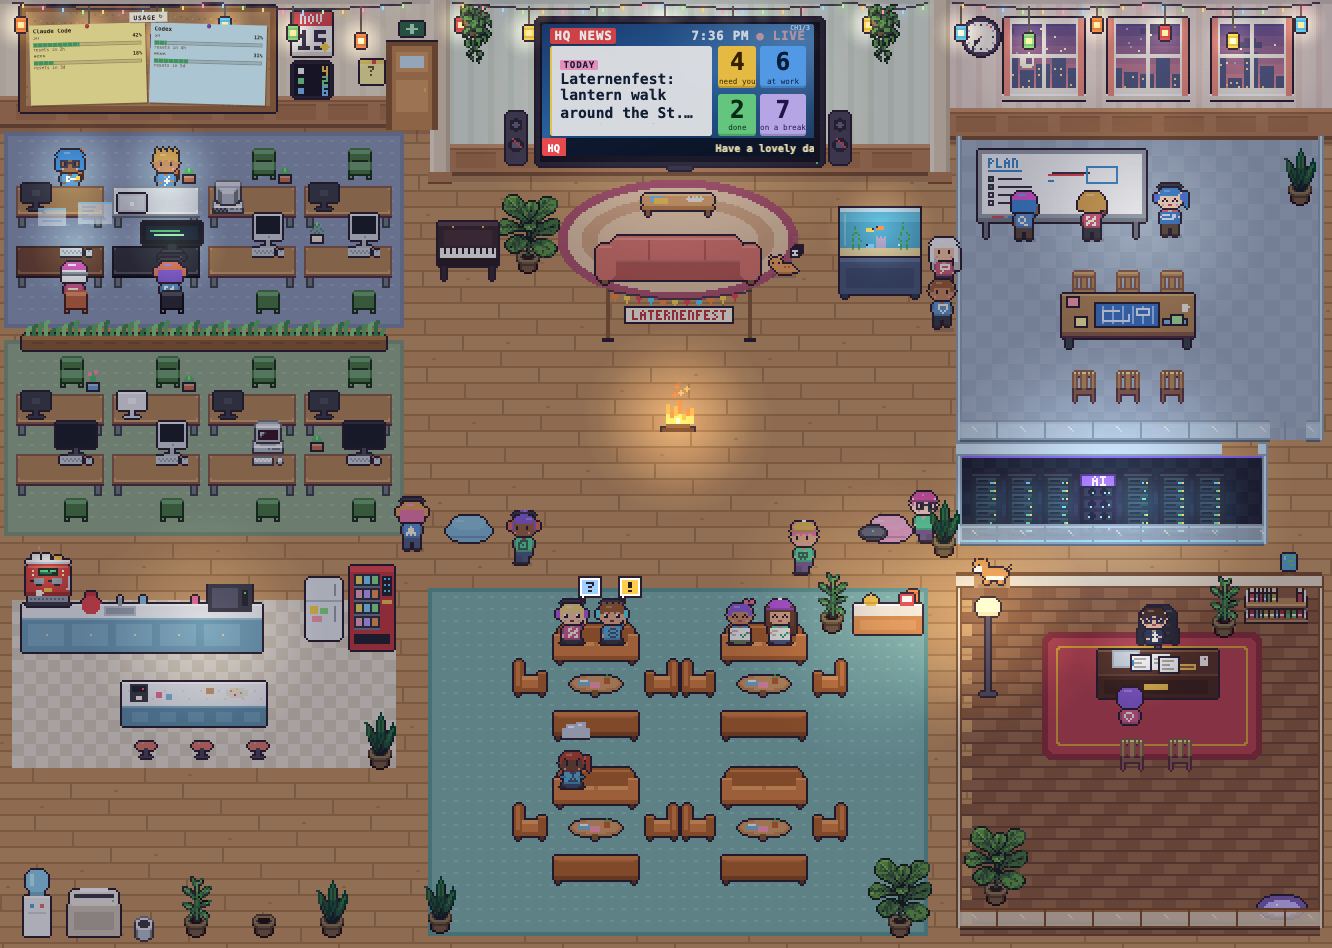
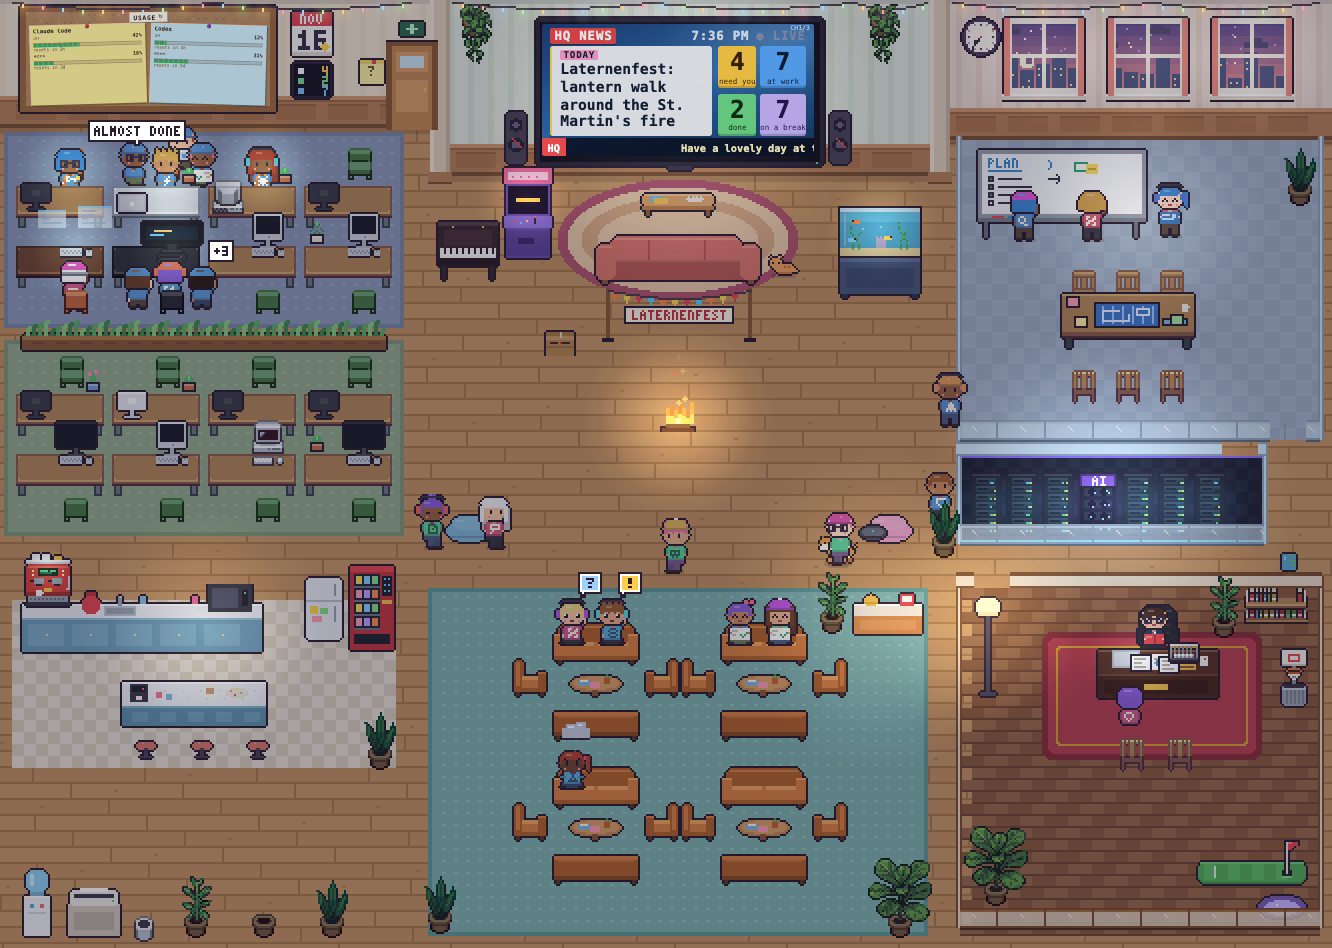
Cozy HQ 0.5.0: five new places, half the CPU, secrets everywhere
- Five new sceneries: Startup House, Mountain Cabin (with a chairlift and
  a piste), Villain's Lair, Spaceship and Coffee Shop (with a terrace and a
  piazza), each with its own floor plan, pets, visitors and things to click
- About half the CPU: no more display-rate repaints from the TV, sprites
  drawn on the CPU, 24 frames a second and none while off screen
- Hidden easter eggs in every scenery, listed in docs/EASTER-EGGS.md (not
  linked from the README, to leave them for finding)
- The TV fits whole headlines, slows down and gets arrows to step through
  the stories
- You in the settings, toys in your office, real arcade games
- New screenshots and a twelve-scenery strip

diff --git a/docs/EASTER-EGGS.md b/docs/EASTER-EGGS.md
@@ -1,0 +1,158 @@
+# Cozy HQ: the hidden easter eggs
+
+Spoilers ahead. This page lists every hidden thing in the office.
+
+**How they work.** A hidden egg isn't outlined when you hold Alt (Option) and
+has no label. It sits on a small clue in the scene, and hovering the clue
+gives a hint. Most also happen on their own now and then, about once every
+hour or two, and never twice within half an hour. Some only happen by day, at
+night or in some weather. They need idle people in the office to play along.
+Eggs that need a fountain, a creek or a front yard only show when the panel
+has room for one.
+
+## Every scenery
+
+- **String lights:** click the very top edge of the wall, along the string
+  lights, and they twinkle.
+- **Easter eggs at Easter:** during the Easter festival, painted eggs are
+  hidden around the floor. Click one to find it.
+
+## 🏢 Classic office
+
+- **Window washer:** click a window sill ("Something squeaks outside"). A
+  washer comes down outside the glass on a cradle, soaps and squeegees it,
+  waves, and a pigeon lands on his hard hat. On its own only by day.
+- **Lost and found:** click the battered LOST + FOUND box on the lounge floor.
+  It flies open and a few of its treasures come out with their owners' lines:
+  a single sock, a rubber duck, a "World's okayest coder" trophy, a
+  tupperware that hums, an umbrella, a mug and one roller skate.
+
+## 🌃 Neon City
+
+- **Reboot:** click the stuck pixel on the main street's curb. The city
+  crashes in glitch bands, shows a NEON CITY OS boot screen with a progress
+  bar, and comes back on from the top down.
+- **The big cat:** click the can of cat food by the last bollard. A giant cat
+  rises in the widest window, blinks, purrs and sinks away ("Nobody feed
+  it.").
+- **Fortune cookie:** click the fortune cookie on the first bollard. A drone
+  flies the fortune to the nearest person, who reads it out.
+
+## 🌲 Redwood Camp
+
+- **The shy giant:** click the big footprint by the tallest redwood. A forest
+  giant leans out from behind the trunk, waves and ducks back.
+- **Slug race:** click the banana slug on the plank bridge. Two slugs race
+  across to a chequered flag in about 20 seconds, with cheering and a photo
+  finish. Only where the camp has its creek.
+- **Fireflies:** click the firefly jar at a tree's foot. The fireflies spell a
+  word over the clearing (LGTM, SHIP IT, NICE…), then scatter.
+
+## 🏄 Surf Villa
+
+- **Periscope:** click the red buoy in the surf. A periscope rises, looks
+  around with a glint and dives.
+- **The invisible sunbather:** click the lone flip-flop on the sand. Wet
+  footprints come up from the sea, a towel spreads out, and a sun hat hovers
+  over nobody.
+- **Pool shark:** click the cardboard fin by the pool. A "shark" circles the
+  pool while everyone shrieks, then lifts out: it's the pool robot.
+
+## 🏙 Sky Loft
+
+- **DO NOT PUSH:** click the button left of the elevator. The tower creaks
+  and everyone sways for a few seconds.
+- **Visitors:** click the green light blinking in the city below. A saucer
+  glides past the windows, beams up a rooftop antenna and zips off.
+- **The commuter:** click the grey feather on the hallway floor. A pigeon in a
+  tie strolls through the loft with its briefcase, and back.
+
+## 🗄 Dusty Annex
+
+- **DO NOT OPEN:** click the taped-up box on the floor. Dust and moths, and a
+  memo inside: "Please do not open this box."
+- **The ghost clerk:** click the 1987 staff photo by the door. The clerk who
+  never clocked out drifts along the corridor ("STILL ON LUNCH!") and fades
+  through the far wall. "Did it just get cold in here?" On its own only after
+  dark.
+- **The snack machine:** click its dented side. A kick, and out drop snacks
+  best before 1998.
+
+## 🏫 School
+
+- **Peanut the hamster:** click the hamster cage. Peanut escapes, zigzags down
+  the corridor and comes back on his own; the wheel stays empty while he's
+  out.
+- **Paper airplane:** click the paper plane on a classroom floor. It loops
+  over the school and lands on your desk as a note: "Can we have recess
+  early?" …Fine.
+- **Fire drill:** click the pull station on the back wall. Red lights, the
+  alarm, everyone lines up while the principal times it. "Who pulled it?"
+  "…Peanut?"
+
+## 🏠 Startup House
+
+- **The term sheet:** click the mailbox by the driveway (its flag is up).
+  Everyone's sure the letter is the term sheet. It's a 2-for-1 pizza coupon.
+- **Raccoon:** click the rattling trash cans by the side gate. A raccoon peeks
+  out with the last slice and runs off up the side yard. On its own at night.
+- **Ship-it gong:** click the dusty gong in the garage. The whole house cheers
+  "SHIPPED!" with confetti. "…To staging."
+
+## 🏔 Mountain Cabin
+
+The chairlift and the piste are out in the open: click the lift for a ride (or
+a stop, a dog, rarely a yeti), the lift hut for its bell, and the summit flag
+for someone skiing or snowboarding down. Hidden:
+
+- **Alphorn:** click the brass mouthpiece left on the sun deck. Someone carries
+  the alphorn out and plays; the peaks echo the call twice, softer each time,
+  and a far-off yodel answers. On its own on clear evenings.
+- **Snowdrift:** click the lump in the snow with a red mitten. The drift
+  wiggles ("MMMF!"), the ski patrol dog digs out a shivering ski tourer and
+  shares the cocoa from the cask on its collar ("COCOA?! BEST. DOG."). On its
+  own while it snows.
+
+## 🌋 Villain's Lair
+
+- **Workers of the lair:** click the padlocked suggestion box at the corner of
+  the open floor. Henchmen picket outside your lair with NAPS!, PIZZA, DENTAL
+  and NO LAVA signs until you give in to Pizza Friday.
+- **Laser pointer:** click the laser pointer on the end of your desk. A red
+  dot skitters round the lair and down the corridor, the white cat after it,
+  and she lands on a henchman's head ("Not the laser again.").
+
+## 🚀 Spaceship
+
+- **Boarding party:** click the tiny unlabeled switch on the bridge. An airlock
+  cycles open and three boarders march onto the bridge: a pirate admiral with
+  a plasma cutlass and a parrot-drone, a cloaked fortune-teller and a young
+  deckhand with a sputtering blade. The crew duck behind consoles, the duel
+  goes back and forth across the bridge, and it ends when the admiral slips
+  on a floating coffee cup. Then everyone bows and the boarders leave. On its
+  own about once every couple of hours.
+- **Self-destruct:** click the covered red button by the gravity switch. The
+  viewscreen counts down from 10 while the bridge flashes and the crew panic.
+  At zero: confetti, a cake and HAPPY BIRTHDAY. "Just kidding."
+- **Nugget:** click the vent grate with the missing screw. Nugget the hamster
+  rolls out in an exercise ball, careers up and down the corridor and rolls
+  back home.
+
+## ☕ Coffee Shop
+
+- **Croissant thief:** click the half croissant on a terrace table. A pigeon
+  swoops in, pecks, and flies off over the road with it. Another croissant
+  shows up a little later.
+- **DO NOT UNPLUG:** click the sticky note by the STAFF sign. The Wi-Fi drops:
+  everyone holds their laptop over their head looking for a signal, and you
+  suggest turning it off and on again.
+- **Busker:** click the open accordion case by the fountain. A busker in a
+  beret strolls up and plays a waltz while coins fly into the case. Only where
+  the café has its piazza.
+
+## For developers
+
+Each scenery's eggs live in `office/themes/<scenery>/eggs.ts` (the classic
+office's in `office/themes/classic/eggs.ts`). They're scenery clickables with
+`secret: true`. In the preview, `__cozyHq.clickScenery("<id>")` with an id
+from that file sets one off without hunting for it.

diff --git a/PLUGIN_OVERVIEW.md b/PLUGIN_OVERVIEW.md
@@ -9,9 +9,9 @@
 - A **home screen on the wall**: every enabled provider's usage on a pinboard, a calendar, a status light board, and a big TV with office news and live head counts, the office weather, tech headlines (Hacker News, Lobsters, Techmeme, The Verge, Ars Technica, DEV, Slashdot, the GitHub Blog, a mix, or any RSS or Atom feed) and, if you use the Work Dashboard plugin, your inbox.
 - **Life in the office**: Biscuit the dog, Pixel the cat, a roomba, fish, a cleaning crew in the evening, a night guard, a glowing server room with an AI cluster, day and night with your clock, and your **real local weather** outside the windows.
 - **Office events** for idle threads (parties, cake, karaoke, cornhole, darts, kids day…) and **festivals** through the year with decorations and their own party: snow day, Lunar New Year, Valentine's Day, Carnival, St. Patrick's Day, Holi, Easter, Maifest, summer, Oktoberfest, Halloween, Diwali, Laternenfest, Thanksgiving and the holidays.
-- Lots to **click**, with synthesized sounds: the espresso machine, vending machine, piano, dartboard, plants, the globe, the couch, your own desk (whistles for the dog), and the windows (birds, crickets, rain, a foghorn…). Sound, scenery and the buddy live behind the gear at the top right.
+- Lots to **click**, with synthesized sounds: the espresso machine, vending machine, piano, dartboard, plants, the globe, the couch, your own desk (whistles for the dog), and the windows (birds, crickets, rain, a foghorn…). Sound, scenery and the buddy live behind the gear at the top right. And every scenery hides a few easter eggs of its own for you to find.
 - An **office buddy** that strolls in a corner of bb wherever you are (inside a thread, as that thread's figure), counting the threads with news since you last looked; the rail icon shows the same count.
-- Fits any panel, including a phone held upright.
+- Fits any panel, including a phone held upright, and stays light on your computer: it draws only what's needed and pauses when the panel is off screen.
 
 ## Good to know
 

diff --git a/CHANGELOG.md b/CHANGELOG.md
@@ -1,6 +1,8 @@
 # Changelog
 
-## Unreleased
+## 0.5.0 (2026-11-16)
+
+Five new places, half the CPU, and secrets in every scenery.
 
 - **Lighter on your computer**: the office takes about half the CPU it did.
   - The TV's ticker, glare and blinking LIVE no longer repaint the page at the display's 60–120 Hz; they move along with the office.
